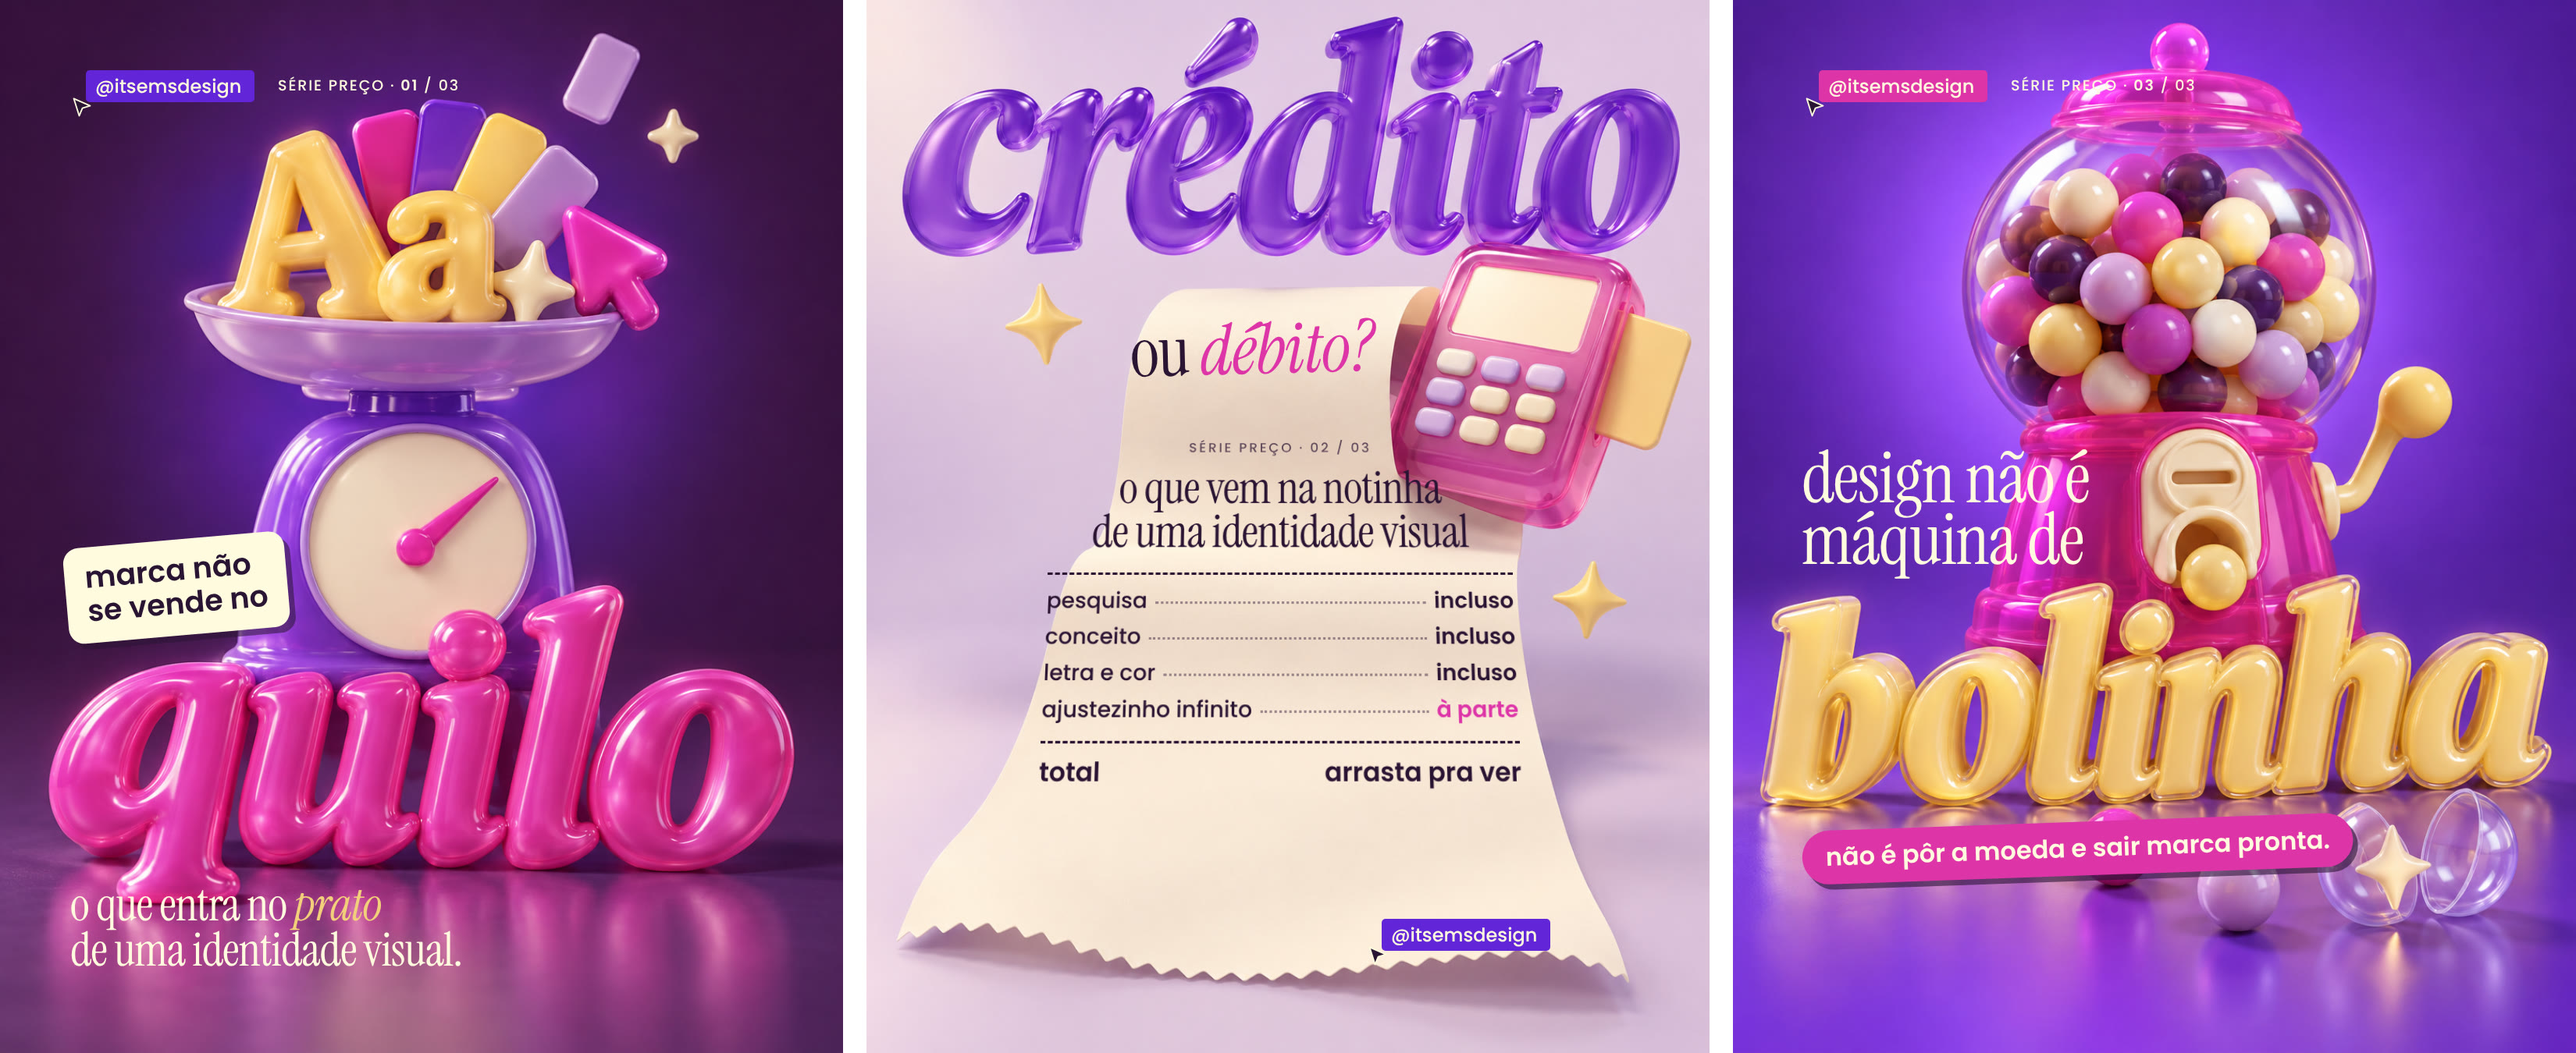
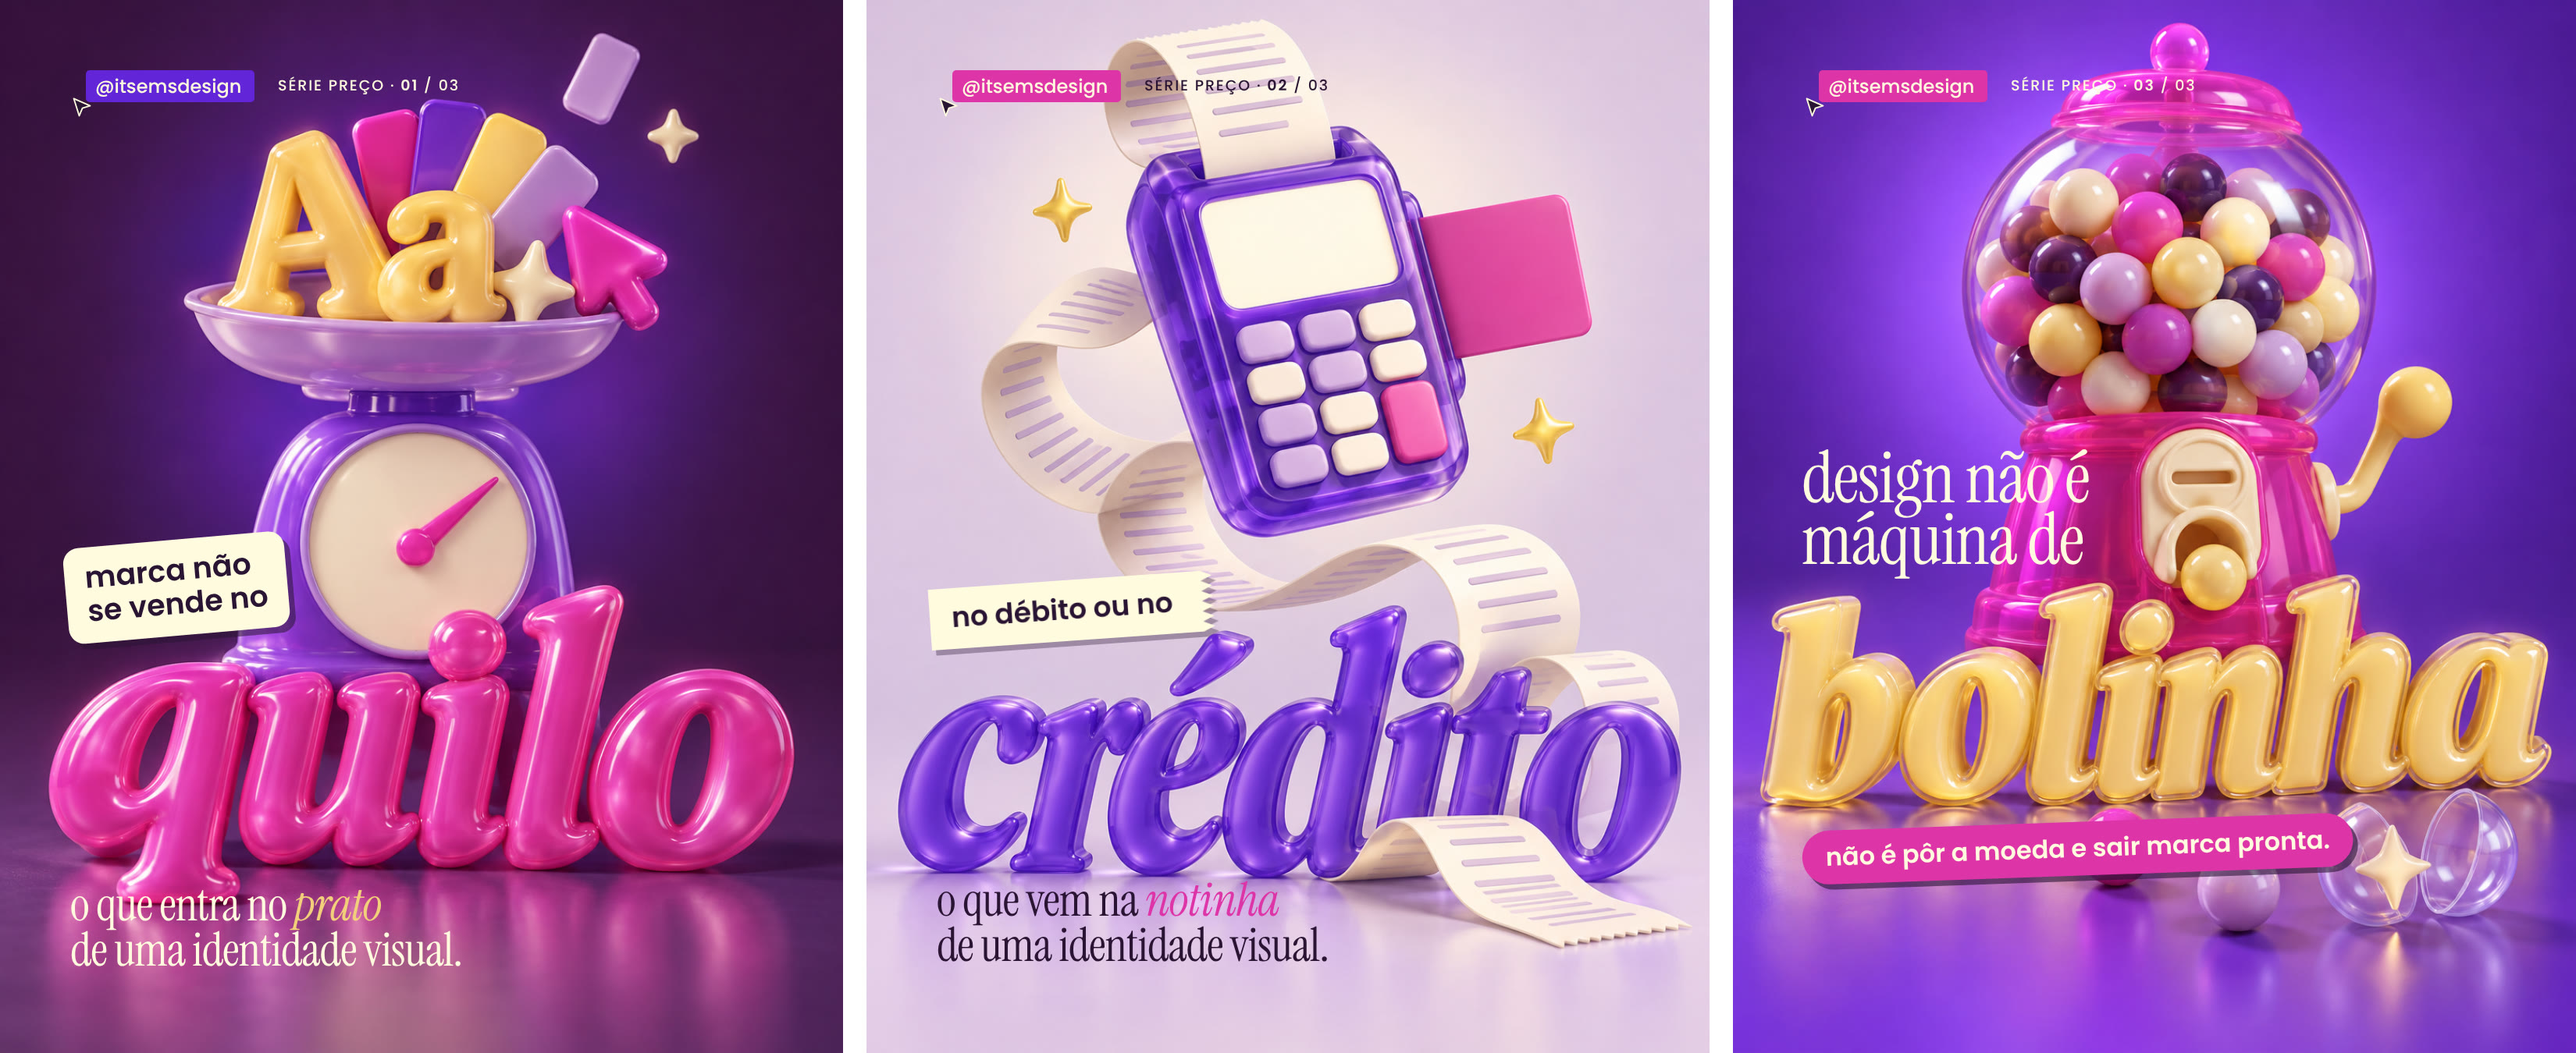
EMS série preço: volta a cena original da maquininha, só a diagramação muda
Claude-Session: https://claude.ai/code/session_01CmCiK8vXoD4pXXU5H6drbd

Changed region(s): [[0.3121, 0.0, 0.6867, 0.9956]]

diff --git a/Emi/ems-serie-preco/projeto/capa.html b/Emi/ems-serie-preco/projeto/capa.html
@@ -16,6 +16,9 @@ html,body{margin:0;background:#111}*{box-sizing:border-box}
 .serif{font-family:"Instrument Serif";font-weight:400;letter-spacing:-.015em;white-space:nowrap}
 .serif em{font-style:italic}
 .cartao{font:600 38px/1.12 Poppins;padding:18px 26px 20px;border-radius:20px;white-space:nowrap;transform-origin:0 100%;box-shadow:7px 8px 0 rgba(42,20,51,.55)}
+/* tira de notinha: papel marfim com a ponta serrilhada */
+.tira{transform-origin:0 100%;filter:drop-shadow(5px 7px 0 rgba(42,20,51,.35))}
+.tira b{display:block;font:600 36px/1 Poppins;color:#2a1433;background:#fffbde;padding:20px 52px 22px 28px;white-space:nowrap;clip-path:polygon(0 0,96% 0,100% 8.3%,96% 16.6%,100% 25%,96% 33.3%,100% 41.6%,96% 50%,100% 58.3%,96% 66.6%,100% 75%,96% 83.3%,100% 91.6%,96% 100%,0 100%)}
 /* notinha */
 .nota{color:#2a1433;text-align:center;transform-origin:50% 0}
 .nota .cab{font:500 17px/1 Poppins;letter-spacing:.16em;text-transform:uppercase;opacity:.7}
@@ -32,21 +35,11 @@ const V={
   ${tag(110,90,'#6225d8')}<span class="serie" style="left:356px;top:100px">série preço · <b>01</b> / 03</span>
   <span class="cartao" style="left:90px;top:704px;background:#fffbde;color:#2a1433;transform:rotate(-5deg)">marca não<br>se vende no</span>
   <span class="serif" style="left:90px;top:1132px;font-size:60px;line-height:.96">o que entra no <em style="color:#f2cf7a">prato</em><br>de uma identidade visual.</span>`,
- // 02 · o texto é impresso na própria notinha
+ // 02 · a entrada é um pedaço da própria notinha, colado na palavra; fecho em serifa logo abaixo
  credito:`<img class="foto" src="cenas/credito.png">
-  <span class="serif" style="left:338px;top:408px;font-size:90px;line-height:.9;color:#2a1433;transform:rotate(-1.5deg)">ou <em style="color:#dd34a8">débito?</em></span>
-  <div class="nota" style="left:240px;top:566px;width:580px;transform:perspective(1500px) rotateX(13deg)">
-    <div class="cab">série preço · 02 / 03</div>
-    <div class="serif" style="font-size:58px;line-height:.96;margin-top:16px">o que vem na notinha<br>de uma identidade visual</div>
-    <hr>
-    <div class="lin"><span>pesquisa</span><i></i><b>incluso</b></div>
-    <div class="lin"><span>conceito</span><i></i><b>incluso</b></div>
-    <div class="lin"><span>letra e cor</span><i></i><b>incluso</b></div>
-    <div class="lin"><span>ajustezinho infinito</span><i></i><b style="color:#dd34a8">à parte</b></div>
-    <hr>
-    <div class="lin" style="font-size:31px;margin-top:0"><b>total</b><i style="border:0"></i><b>arrasta pra ver</b></div>
-  </div>
-  ${tag(660,1268-90,'#6225d8')}`,
+  ${tag(110,90,'#dd34a8')}<span class="serie" style="left:356px;top:100px;color:#2a1433">série preço · <b>02</b> / 03</span>
+  <span class="tira" style="left:84px;top:756px;transform:rotate(-4deg)"><b>no débito ou no</b></span>
+  <span class="serif" style="left:90px;top:1126px;font-size:60px;line-height:.96;color:#2a1433">o que vem na <em style="color:#dd34a8">notinha</em><br>de uma identidade visual.</span>`,
  // 03 · manchete em serifa empilhada na palavra + pílula colada embaixo
  bolinha:`<img class="foto" src="cenas/bolinha.png">
   ${tag(110,90,'#dd34a8')}<span class="serie" style="left:356px;top:100px">série preço · <b>03</b> / 03</span>
